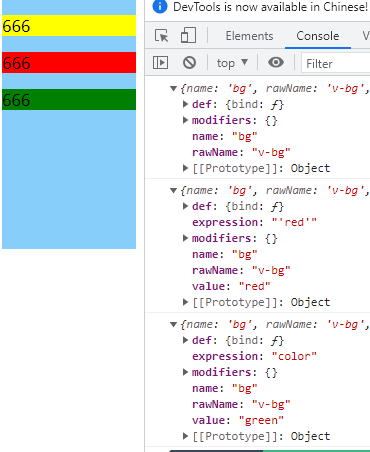
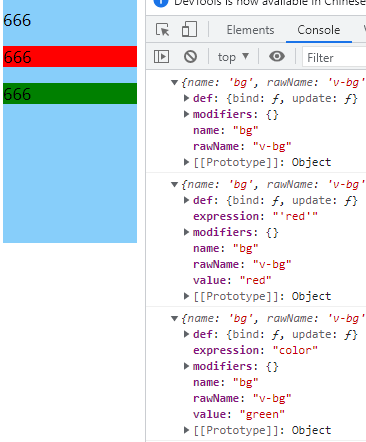
vue

Changed region(s): [[0.0, 0.0, 1.0, 0.5588], [0.4508, 0.3824, 1.0, 1.0], [0.0, 0.5294, 0.0301, 0.5588]]

diff --git a/md/vue/vue12.md b/md/vue/vue12.md
@@ -4,9 +4,7 @@
 * 全局自定义指令：定义在vue实例上，全局可用
 
 ### 一、私有自定义指令
-在 vue 组件中，可以在 directiives 节点下声明私有自定义指令
-
-### 1. 声明私有自定义指令
+### 1. 声明、使用
 在 vue 组件中，可以在 directives 节点下声明私有自定义指令
 ```
 <template>
@@ -18,7 +16,6 @@
 </template>
 
 <script>
-
 export default {
   data() {
     return {
@@ -29,11 +26,11 @@ export default {
     bg: {
       bind(el, binding) {
         console.log(binding);
-        if (binding.value) {
-          el.style.backgroundColor = binding.value;
-        } else {
-          el.style.backgroundColor = 'yellow';
-        }
+        el.style.backgroundColor = binding.value;
+      },
+      update(el, binding) {
+        console.log(binding);
+        el.style.backgroundColor = binding.value;
       }
     }
   }
@@ -42,12 +39,33 @@ export default {
 ```
 
 * 指令名: bg，通过 v-bg 指令使用
-* `bind` 方法，当指令第一次绑定到元素上，触发 `bind` 方法
-  * 形参 `el`，当前指令锁绑定到的 DOM 对象
-  * 形参 `binding`，绑定内容，可以通过 `binding.value` 拿到传过来的值
+* `bind` 方法，当指令第一次绑定到元素上，触发该方法
+* `update` 方法，每次DOM更新时，触发该方法
+* 形参 `el`，当前指令锁绑定到的 DOM 对象
+* 形参 `binding`，绑定内容，可以通过 `binding.value` 拿到传过来的值
 
 ![](https://fgq233.github.io/imgs/vue/vue5.png)
 
 
-### 2. 使用自定义指令
-`<p v-bg>666</p>`
+#### 2. 简写
+如果 `bind()` 和 `update()` 逻辑一致，则可以简写成函数格式
+
+```
+  directives: {
+    bg(el, binding) {
+      console.log(binding);
+      el.style.backgroundColor = binding.value;
+    }
+  }
+```
+
+
+### 二、全局自定义指令
+通过 `Vue.directive() `来声明
+
+```
+Vue.directive("bg", function (el, binding) {
+  console.log(binding);
+  el.style.backgroundColor = binding.value;
+});
+```
